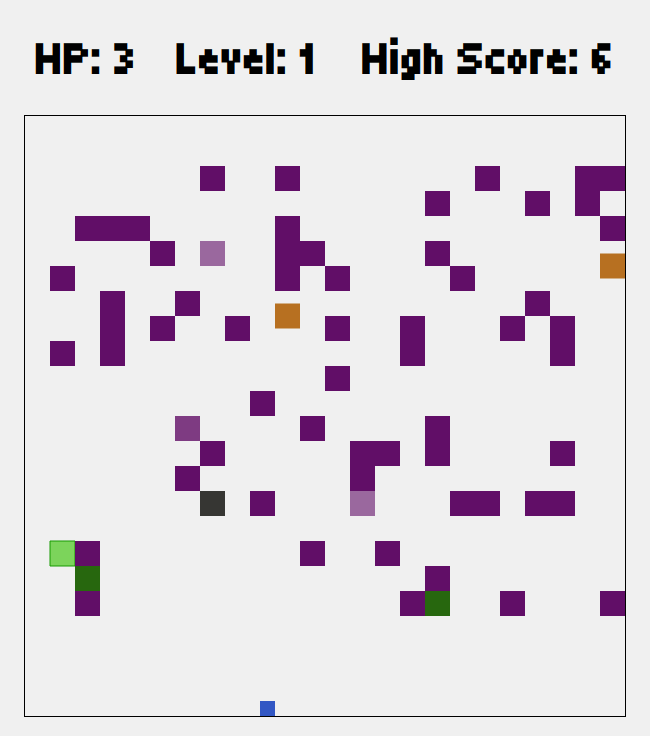
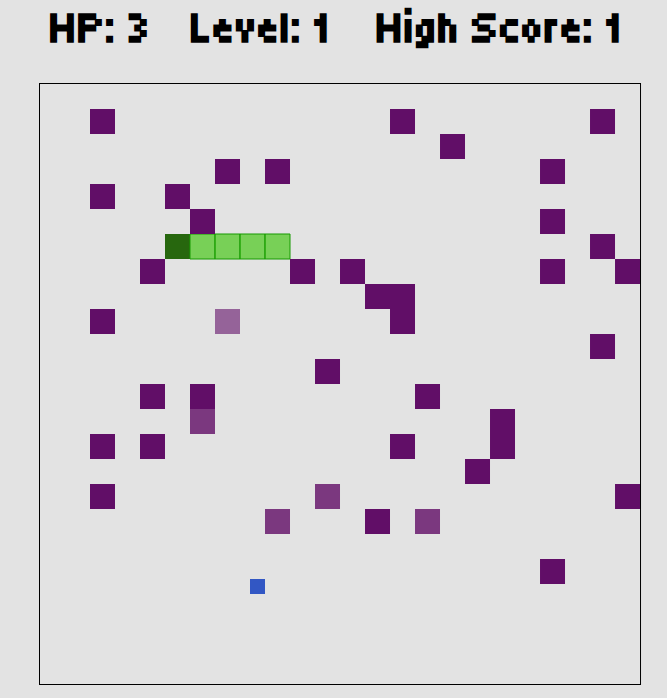
Changed Background of the games and the pictures

diff --git a/src/main/resources/templates/index.html b/src/main/resources/templates/index.html
@@ -53,6 +53,12 @@
           <img src="/images/centipede.png">
         </div>
       </div>
+      <div id="shooter" class="col-4 gameCard">
+        <h2 class="text-center">Shooter</h2>
+        <div class="image-container">
+          <img src="/images/shooter.png">
+        </div>
+      </div>
     </div>
   </div>
   <h1 class="text-center mt-5">PopSauce and more Games coming Soon!</h1>

diff --git a/src/main/resources/static/javascript/script.js b/src/main/resources/static/javascript/script.js
@@ -16,4 +16,7 @@ document.getElementById('snake').addEventListener('click', e => {
 document.getElementById('centipede').addEventListener('click', e => {
     window.location = "/centipede";
 })
+document.getElementById('shooter').addEventListener('click', e => {
+    window.location = "https://game.dominik-fischer.net";
+})
 console.log('Test')

diff --git a/src/main/resources/static/css/norm.css b/src/main/resources/static/css/norm.css
@@ -1,7 +1,9 @@
+html, body{
+    background-color: #e3e3e3 !important;
+}
 canvas {
     border: 1px solid #000;
 }
-
 .hidden{
     display: none;
 }
@@ -36,7 +38,6 @@ body {
     align-items: center;
     flex-direction: column;
     height: 100vh;
-    background-color: #f0f0f0;
 }
 
 .d-flex-row{
